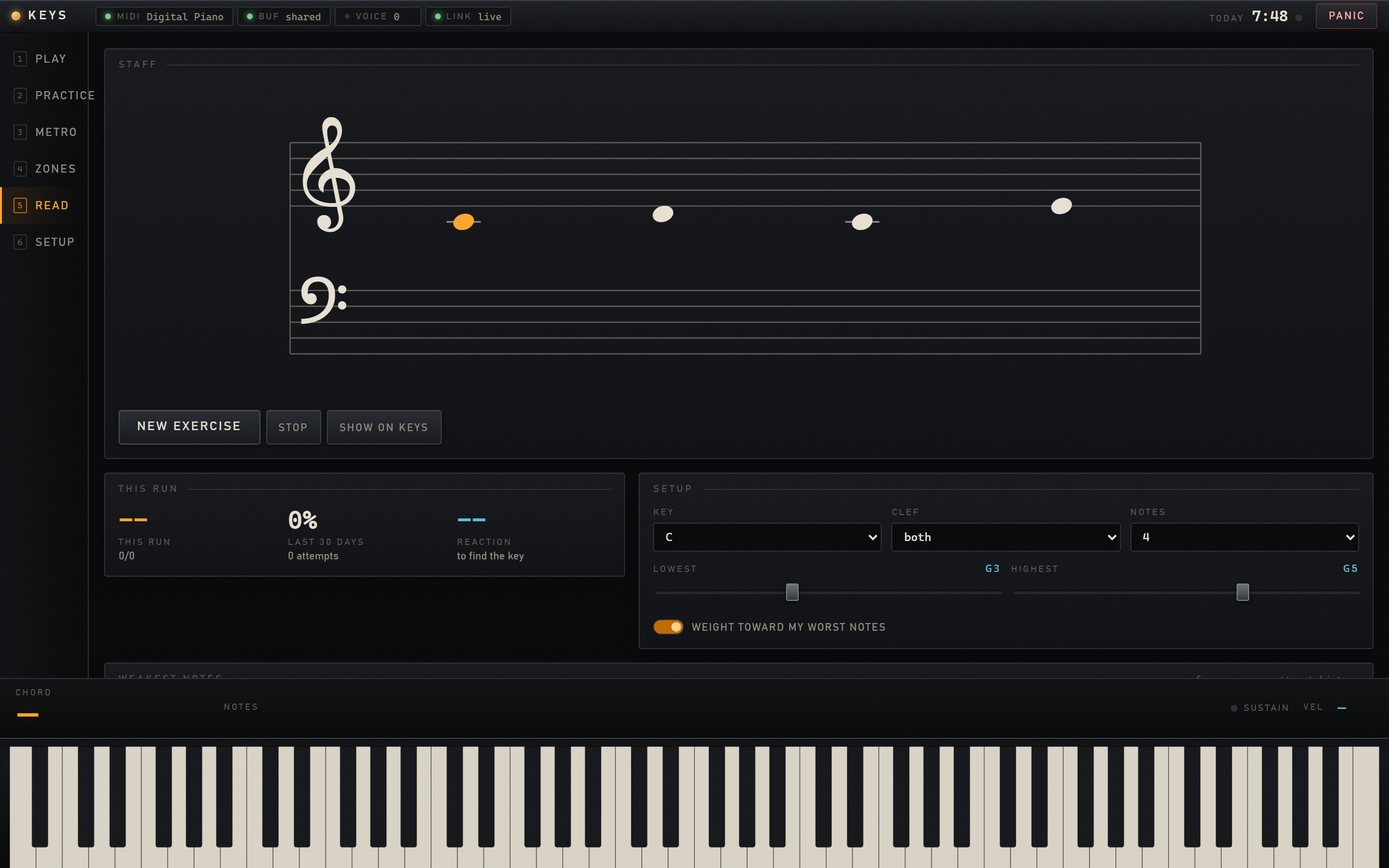
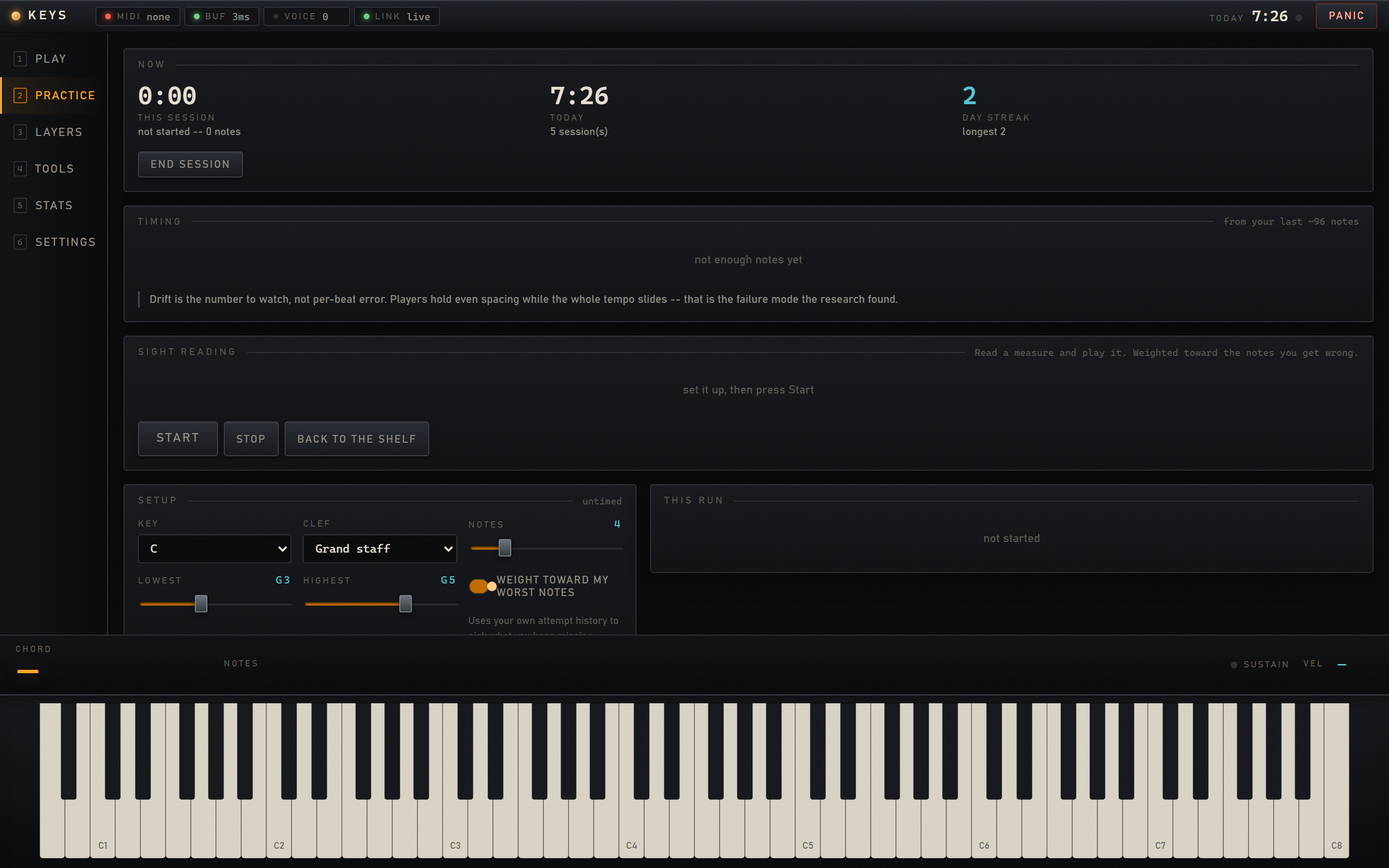
docs: rename tabs, refresh every screenshot, note the vacuous-test lesson
The keyboard fix alone invalidated every screenshot, and the docs still named Zones,
Metro and Setup. Retook all seven from the running app; dropped zones.png,
metronome.png and the two analytics shots, which no longer correspond to a tab.

CONTRIBUTING gains exercise_check, the real reason the audio checks now refuse to run
while the app is up, and a note about the two assertions this project has shipped that
could not fail -- both passed for weeks with the bug sitting next to them.

diff --git a/README.md b/README.md
@@ -72,13 +72,14 @@ That's the whole setup. The browser opens on its own, the MIDI port binds itself
 plugging it back in needs no restart. `1`–`6` switch views, `M` toggles the metronome, `Esc` is panic.
 
 > **FluidSynth somewhere else?** Set `KEYS_FLUIDSYNTH_BIN` to its `bin` directory. Everything else you'd want to
-> change lives in **Setup**, and persists to a gitignored `config.local.json`.
+> change lives in **Settings**, and persists to a gitignored `config.local.json`.
 
 ## Features
 
 - **Three milliseconds, measured** — WASAPI exclusive mode at a 144-sample buffer, verified on real hardware rather than estimated. Audio is rendered in FluidSynth's own C thread and **never passes through Python**. The MIDI callback does one thing and stops; everything else runs off a bounded queue that drops frames instead of blocking a note.
-- **Zones: splits, layers and drum pads** — a zone is a key range pointed at a channel, and **overlapping two zones *is* the layer**. There's no separate "layer mode" because there doesn't need to be one. Per-zone transpose, gain, pan, reverb/chorus sends and velocity curves, edited live against a visual range bar.
+- **Layers: splits and layers on one keybed** — a *split* puts bass in your left hand and piano in your right; a *layer* puts piano and strings on the same keys. Both are one idea: a zone is a range of keys pointed at a sound, and **overlapping two zones *is* the layer**. One click each, with a full editor underneath for transpose, gain, pan, sends and velocity curves.
 - **18 presets, 287 instruments** — presets are plain JSON you can edit by hand. The instrument browser enumerates every preset the SoundFont actually contains — including all 13 drum kits — rather than trusting the GM chart.
+- **Exercises you can pick up** — scales in any key and mode, one hand or both, parallel or contrary; arpeggios with inversions; sight reading. Hands-together steps carry both notes, so the spread between your hands is measured directly — the thing most people plateau on and nobody else surfaces.
 - **A practice clock that doesn't flatter you** — time is credited *between consecutive notes*, capped at a grace window, so "34 minutes" means minutes with your hands on the keys and not minutes with the app open. Streaks, a 90-day calendar, and a per-key heatmap of what you actually use.
 - **A metronome on the audio clock** — clicks are scheduled on FluidSynth's sequencer, driven by the render thread, so they cannot drift against the sound. Tempo ramp with a one-key setback when you miss. It measures **drift**, not just per-beat error — players hold even spacing while the whole tempo slides, and that's the failure mode worth seeing.
 - **Sight reading that adapts** — a hand-rolled SVG grand staff (no notation engine), enharmonically spelled by key signature, weighting each new measure toward *your* worst notes from your own attempt history.
@@ -97,22 +98,22 @@ plugging it back in needs no restart. `1`–`6` switch views, `M` toggles the me
 <table>
   <tr>
     <td width="50%" valign="top">
-      <img src="docs/assets/screenshots/practice.png" alt="Practice view with the calendar, key heatmap and timing analysis" /><br/>
-      <sub><b>Practice</b> — idle-gapped clock, streaks, a 90-day calendar and which keys you actually use.</sub>
+      <img src="docs/assets/screenshots/practice.png" alt="The Practice tab: a session clock and a shelf of exercises" /><br/>
+      <sub><b>Practice</b> — a session clock and a shelf: scales, arpeggios and sight reading.</sub>
     </td>
     <td width="50%" valign="top">
       <img src="docs/assets/screenshots/read.png" alt="Sight reading on a hand-rolled SVG grand staff" /><br/>
-      <sub><b>Read</b> — a real grand staff with correct ledger lines, weighted toward your weakest notes.</sub>
+      <sub><b>Sight reading</b> — a real grand staff with key signatures and correct ledger lines, weighted toward your weakest notes.</sub>
     </td>
   </tr>
   <tr>
     <td width="50%" valign="top">
-      <img src="docs/assets/screenshots/zones.png" alt="The zone editor with its visual key-range bar" /><br/>
-      <sub><b>Zones</b> — splits and layers on one keybed. Overlap is the layer.</sub>
+      <img src="docs/assets/screenshots/layers.png" alt="The Layers tab: one-click split and layer builders" /><br/>
+      <sub><b>Layers</b> — a split or a layer in one click, with the full editor underneath.</sub>
     </td>
     <td width="50%" valign="top">
-      <img src="docs/assets/screenshots/metronome.png" alt="The metronome view with tempo ramp controls" /><br/>
-      <sub><b>Metro</b> — scheduled on the audio clock, with a tempo ramp and drift measurement.</sub>
+      <img src="docs/assets/screenshots/stats.png" alt="The Stats tab: activity calendar and key heatmap" /><br/>
+      <sub><b>Stats</b> — a year of activity, an 88-key heatmap, and the keys you actually play in.</sub>
     </td>
   </tr>
 </table>
@@ -159,7 +160,7 @@ python tools\midi_probe.py                        # zero dependencies. Is the pi
 ```
 
 **"Everything else went silent."** Exclusive mode gives Keys sole ownership of the output device, which is
-exactly where the 3 ms comes from — while it runs, nothing else can play through that device. **Setup → Audio
+exactly where the 3 ms comes from — while it runs, nothing else can play through that device. **Settings → Audio
 output** switches to shared mode (Windows picks the buffer, ~10 ms) or pins Keys to a different output so you
 keep both. Closing Keys always hands the device straight back.
 

diff --git a/docs/ARCHITECTURE.md b/docs/ARCHITECTURE.md
@@ -93,7 +93,7 @@ microseconds, and states plainly in the UI what it excludes.
 
 Exclusive mode is where the 3 ms comes from, and it takes the output device away from every other application on
 the machine for as long as Keys runs. That is WASAPI working as designed. Three ways to live with it, exposed in
-**Setup → Audio output**:
+**Settings → Audio output**:
 
 1. **Pin Keys to a different output device** than everything else — keeps low latency *and* other audio.
 2. **Shared mode** — everything coexists; Windows chooses the buffer, so expect roughly 10 ms.

diff --git a/CONTRIBUTING.md b/CONTRIBUTING.md
@@ -45,7 +45,7 @@ Run the suite locally. It is six scripts and needs no test runner:
 temp databases and temp settings; a test that writes to `config.local.json` or `keys.db` is a bug, and has
 caused a real one before (a stale ramp ceiling silently pinned the metronome at 100 bpm).
 
-If you touched anything on the hot path, also play the piano for a minute and watch **Setup → Event pipeline**
+If you touched anything on the hot path, also play the piano for a minute and watch **Settings → Event pipeline**
 for dropped frames.
 
 ## Workflow
